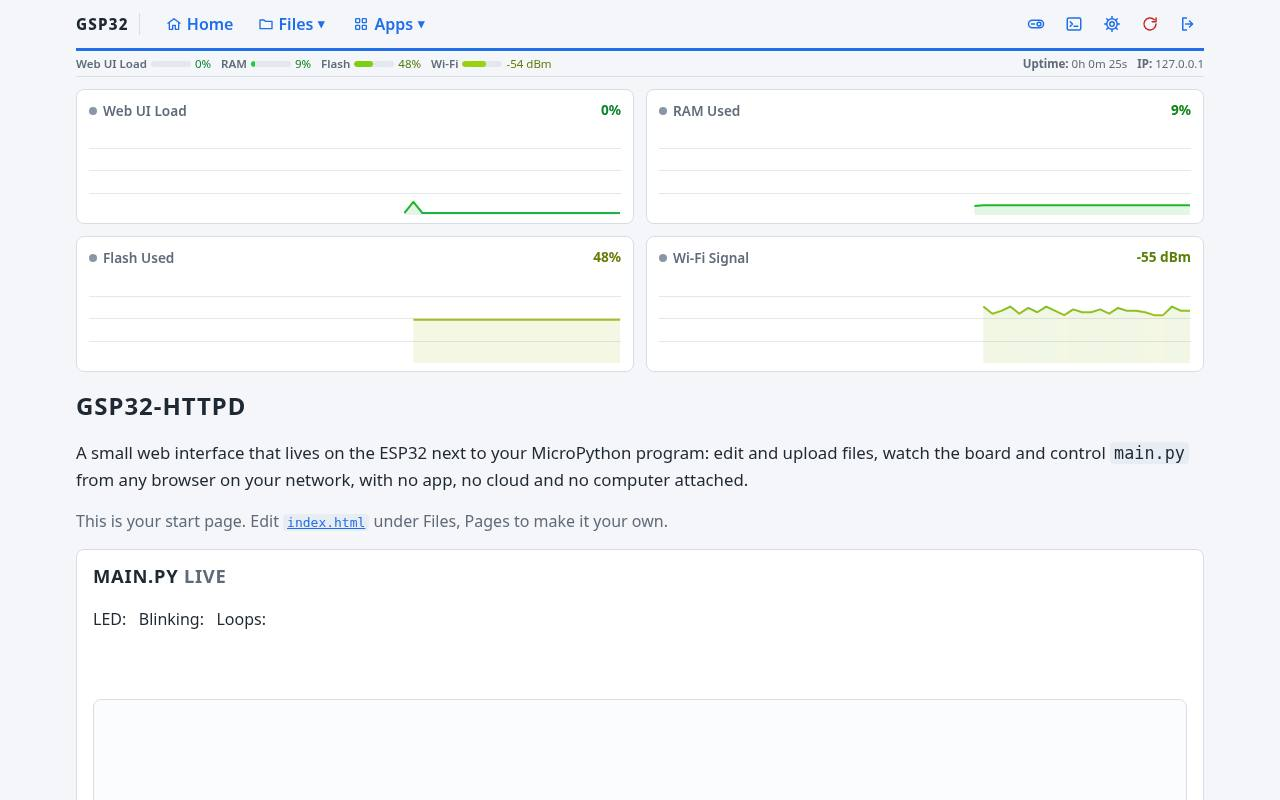
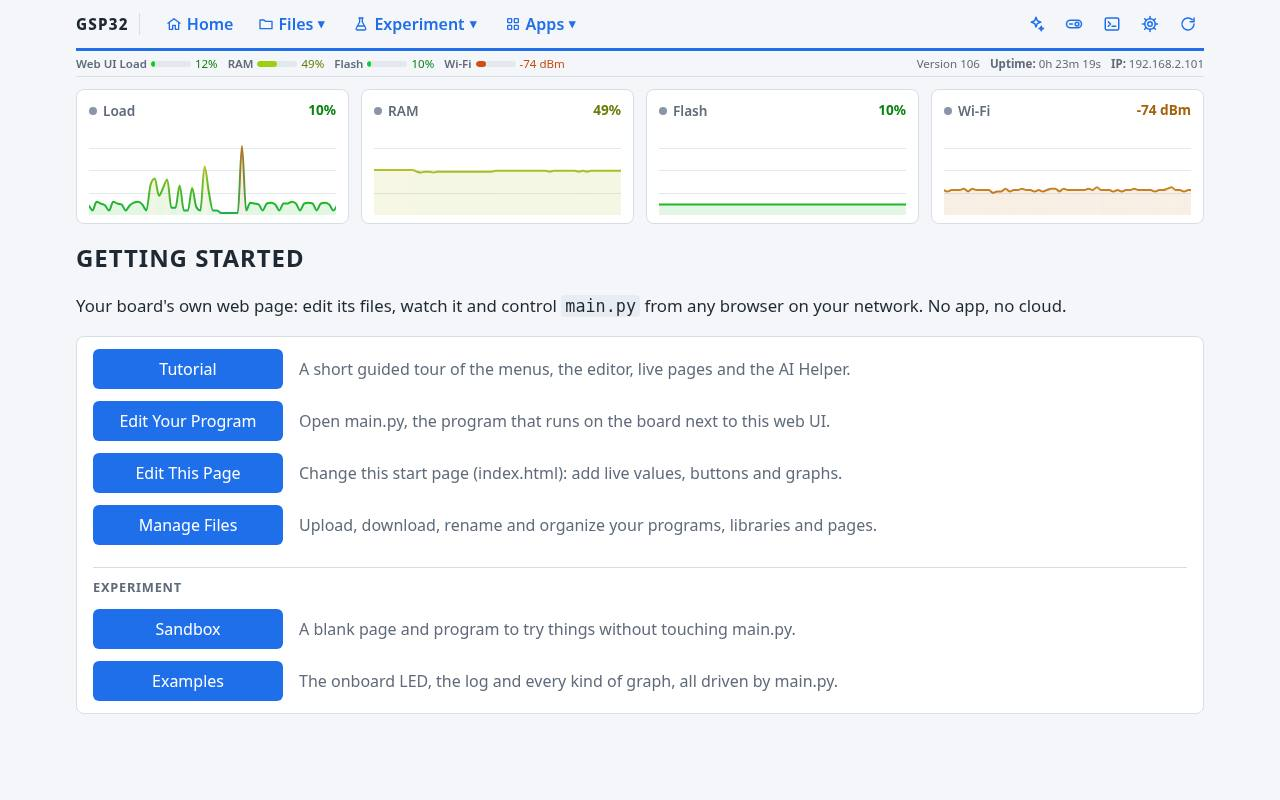
Check It Out tour (Gene, V106): reshot from the dev board's Version 106 web UI (release_shots.py: COM4, never Gene's board; the editor with Split showing the start page); ten slides: Home, Files, Code Editor (Split), Sandbox, Examples, Pins, Console, Libraries, Backup, Settings; descriptions for the

diff --git a/tour.js b/tour.js
@@ -1,20 +1,25 @@
 // Version 46 (Gene): What You Get: thumbnails of the GSP32 web UI (shots/, made by release_shots.py from the dev board).
 //  A click opens the full-size picture with a short tour. Nothing here touches the installer
+// Version 106 (Gene): the tour follows the current web UI: the Experiment menu (Sandbox, Examples), Split in the editor
 var TOUR = {
-  home: ["Your Board at a Glance", "Open the board's address in any browser and the start page greets you with live graphs of what matters: how busy the web UI is, memory, flash and Wi-Fi signal. It's your own page too, so make it a dashboard for your project.",
-    ["Live graphs for Web UI Load, RAM, Flash and Wi-Fi", "A status bar on every page with uptime and the board's IP", "Your own pages with live values from main.py"]],
+  home: ["Your Board at a Glance", "Open the board's address in any browser and the start page greets you with live graphs of what matters: how busy the web UI is, memory, flash and Wi-Fi signal. Getting Started links the Tutorial, your program, your files and the Experiment pages. It's your own page too, so make it a dashboard for your project.",
+    ["Live graphs for Web UI Load, RAM, Flash and Wi-Fi", "Getting Started, with the Sandbox and Examples one click away", "The menu: Home, Files, Experiment and Apps, plus the AI Helper on every page"]],
   files: ["Files Without Cables", "Manage everything on the board from the browser: upload by dragging files in, move them by dragging, rename, download and delete. No USB cable, no extra tools.",
-    ["Drag and drop upload and moving", "Box selection and bulk Download or Delete", "Folders tree, locks and safe system files"]],
-  editor: ["Edit Code Right on the Board", "Edit main.py or any file in a real code editor, then Save & Restart to run the change at once, without a reboot. Right-click and pick Insert for shortcuts for frequently used tasks and talking to other devices.",
-    ["Save & Restart (Ctrl-S), with errors shown on their line", "Shortcuts for Frequently Used Tasks: Insert Pin, Insert PWM and Insert ADC", "Talking to Other Devices: Insert Device, with secure pairing and encryption"]],
+    ["Drag and drop upload and moving", "Box selection and bulk Download or Delete", "Restore Factory Version for the starter files"]],
+  editor: ["Edit Code Right on the Board", "Edit main.py or any file in a real code editor, then Save & Restart to run the change at once, without a reboot. Split puts the live page next to the code and reloads it after each save. Right-click and pick Insert for ready-made code.",
+    ["Split: the live page beside the code, with a draggable divider", "Save & Restart (Ctrl-S), with errors shown on their line", "Find and Replace, Go to Line, comment toggle (Ctrl-/), folding", "Insert: pins, PWM, analog inputs, components and other boards"]],
+  sandbox: ["Try Things in the Sandbox", "Experiment, Sandbox is a blank page and program of its own. Switch between View, Code and HTML, then Save & Run: sandbox.py runs while main.py pauses, and Restart brings main.py back.",
+    ["A blank sandbox.py and sandbox.html (/sandbox)", "Save & Run without touching main.py", "Clear Sandbox makes both blank again; Ctrl-Shift-M opens sandbox.py"]],
+  examples: ["Examples to Copy From", "Experiment, Examples shows the onboard LED buttons, the log and every kind of graph, all driven by main.py. Each one is a single tag you can copy into your own pages.",
+    ["Line, history, radial, bar, pie and donut graphs", "LED buttons and a live log", "One-line comments on every example"]],
   pins: ["See and Drive Every Pin", "The Pin Panel shows every GPIO as a card: its level, whether it's safe to use, and what main.py calls it. Drive a pin high or low with a click to test your wiring.",
     ["Live levels and ADC readings", "Safe, careful and taken pins color-coded", "Pins named after your main.py"]],
   console: ["A Console in Your Browser", "Watch print() output and errors from main.py as they happen, and type Python straight into the board. It's the serial console, without the serial cable.",
     ["Live output from main.py", "Run Python lines on the board", "The last error kept across reboots"]],
-  libraries: ["Add Libraries in Seconds", "Search the MicroPython package index and install packages into /lib with one click. Your browser fetches them, so the board stays fast."],
-  backup: ["Back Up and Restore", "Download your whole board as one file, and put it back on this board or a new one whenever you need to."],
-  settings: ["Make It Yours", "The Network card keeps the device name, Wi-Fi, password and Discoverable together. Set the clock and time zone, and switch optional apps like Libraries and Backup on or off.",
-    ["Network card: device name and .local address, Wi-Fi, password, mDNS, Discoverable", "Clock with NTP and time zone", "Optional apps you can switch on and off"]]
+  libraries: ["Add Libraries in Seconds", "Apps, Libraries searches the MicroPython package index and installs packages into /lib with one click. Your browser fetches them, so the board stays fast."],
+  backup: ["Back Up and Restore", "Apps, Backup downloads your whole board as one file, and puts it back on this board or a new one whenever you need to."],
+  settings: ["Make It Yours", "Wi-Fi, the device name, a password and what visitors may open, the AI Helper's provider and key, the clock and time zone, optional apps, and Reset to Factory Files.",
+    ["Network card: device name and .local address, Wi-Fi, password, Discoverable", "AI Helper: your key stays in your browser, never on the board", "Clock with NTP and time zone; optional apps you can switch on and off"]]
 };
 
 (function () {

diff --git a/style.css b/style.css
@@ -374,7 +374,9 @@ body.hero50 .step-art { width: 32px; height: 24px; }
 body.hero50 .hero { min-height: 0; display: block; }
 body.hero50 .tour-divider { margin-top: 20px; }
 body.hero50 .tour h2 { margin: 0 0 12px; }
-@media (min-width: 1000px) { body.hero50 .tour-list { grid-template-columns: repeat(4, 1fr); gap: 12px; max-width: 900px; margin: 0 auto; } body.hero50 .tour-thumb img { aspect-ratio: 16 / 8; } }
+/* Version 106: ten slides in two rows of --tour-columns (the gallery still fits one laptop screen) */
+:root { --tour-columns: 5; --tour-max: 960px; }
+@media (min-width: 1000px) { body.hero50 .tour-list { grid-template-columns: repeat(var(--tour-columns), 1fr); gap: 12px; max-width: var(--tour-max); margin: 0 auto; } body.hero50 .tour-thumb img { aspect-ratio: 16 / 8; } }
 @media (max-width: 640px) {
   body.hero50 .page-head .lede { white-space: normal; }
   body.hero50 .steps-row { display: grid; grid-template-columns: 1fr; justify-items: center; gap: 6px; }

diff --git a/release_shots.py b/release_shots.py
@@ -1,15 +1,18 @@
 """ Version 46: regenerates the "What You Get" screenshots in shots/ from the DEV board (never Gene's board) on each release.
-Usage: release_shots.py [http://192.168.2.22]   (needs playwright: /workspace/review/venv/bin/python release_shots.py)
-Pages that answer 404 (an app switched off on the dev board) are skipped and left out of shots/index.json """
+Usage: release_shots.py [http://192.168.2.101]   (needs playwright: /workspace/pw-venv/bin/python release_shots.py)
+Pages that answer 404 (an app switched off on the dev board) are skipped and left out of shots/index.json
+Version 106 (Gene): the current web UI: the Experiment menu (Sandbox, Examples) and the editor with Split on """
 import json, os, sys, urllib.request
 from playwright.sync_api import sync_playwright
 
-BOARD = (sys.argv[1] if len(sys.argv) > 1 else "http://192.168.2.22").rstrip("/")
-assert "192.168.2.228" not in BOARD, "never Gene's board"
+BOARD = (sys.argv[1] if len(sys.argv) > 1 else "http://192.168.2.101").rstrip("/")
+assert ("192.168.2.100" not in BOARD) and ("192.168.2.228" not in BOARD), "never Gene's board"
 HERE = os.path.dirname(os.path.abspath(__file__))
+# key, page, title; the editor opens with Split on (the live page next to the code)
 SHOTS = [("home", "/", "Home and Graphs"), ("files", "/board", "File Manager"), ("editor", "/edit?path=/main.py", "Code Editor"),
-         ("pins", "/app/pins", "Pin Panel"), ("console", "/console", "Web Console"), ("libraries", "/app/libraries", "Libraries"),
-         ("backup", "/app/backup", "Backup"), ("settings", "/settings", "Settings")]
+         ("sandbox", "/sandbox", "Sandbox"), ("examples", "/examples", "Examples"), ("pins", "/app/pins", "Pin Panel"),
+         ("console", "/console", "Web Console"), ("libraries", "/app/libraries", "Libraries"), ("backup", "/app/backup", "Backup"),
+         ("settings", "/settings", "Settings")]
 
 def answers(path):
     try:
@@ -22,12 +25,17 @@ done = []
 with sync_playwright() as pw:
     browser = pw.chromium.launch()
     page = browser.new_page(viewport={"width": 1280, "height": 800}, device_scale_factor=1)
+    page.goto(BOARD + "/style.css")
+    page.evaluate("localStorage.setItem('editorSplit', '1'); localStorage.setItem('editorSplitShare', '0.5')")
     for key, path, title in SHOTS:
         if not answers(path):
             print("skipped", path)
             continue
+        if (key == "editor"):
+            # Split shows the start page next to main.py (not whichever page came before)
+            page.evaluate("sessionStorage.setItem('splitPage:/main.py', '/')")
         page.goto(BOARD + path, wait_until="load", timeout=30000)
-        page.wait_for_timeout(25000 if key == "home" else 2500)
+        page.wait_for_timeout(25000 if key in ("home", "examples") else 6000 if key == "editor" else 2500)
         page.screenshot(path=os.path.join(HERE, "shots", key + ".jpg"), type="jpeg", quality=72)
         done.append({"key": key, "title": title})
         print("shot", path)

diff --git a/tests/test_v75.py b/tests/test_v75.py
@@ -38,7 +38,8 @@ with sync_playwright() as p:
         check(tag + ": no Peer Manager note", "Peer Manager" not in pg.inner_text("body") and pg.locator(".release-note").count() == 0)
         pg.locator("#tour").scroll_into_view_if_needed(); pg.wait_for_timeout(800)
         titles = pg.locator(".tour-thumb span").all_inner_texts()
-        check(tag + ": Check It Out slides", "Code Editor" in titles and "Insert Wizards" not in titles and len(titles) == 8, str(titles))
+        # Version 106 (Gene): ten slides of the current web UI (the Experiment menu's Sandbox and Examples added)
+        check(tag + ": Check It Out slides", "Code Editor" in titles and "Sandbox" in titles and "Examples" in titles and "Insert Wizards" not in titles and len(titles) == 10, str(titles))
         pg.screenshot(path=SHOTS + "/tour8-check-it-out-" + tag + ".png")
         pg.click(".tour-thumb >> nth=2"); pg.wait_for_timeout(600)
         pg.screenshot(path=SHOTS + "/tour8-editor-" + tag + ".png"); pg.keyboard.press("Escape"); pg.wait_for_timeout(300)
